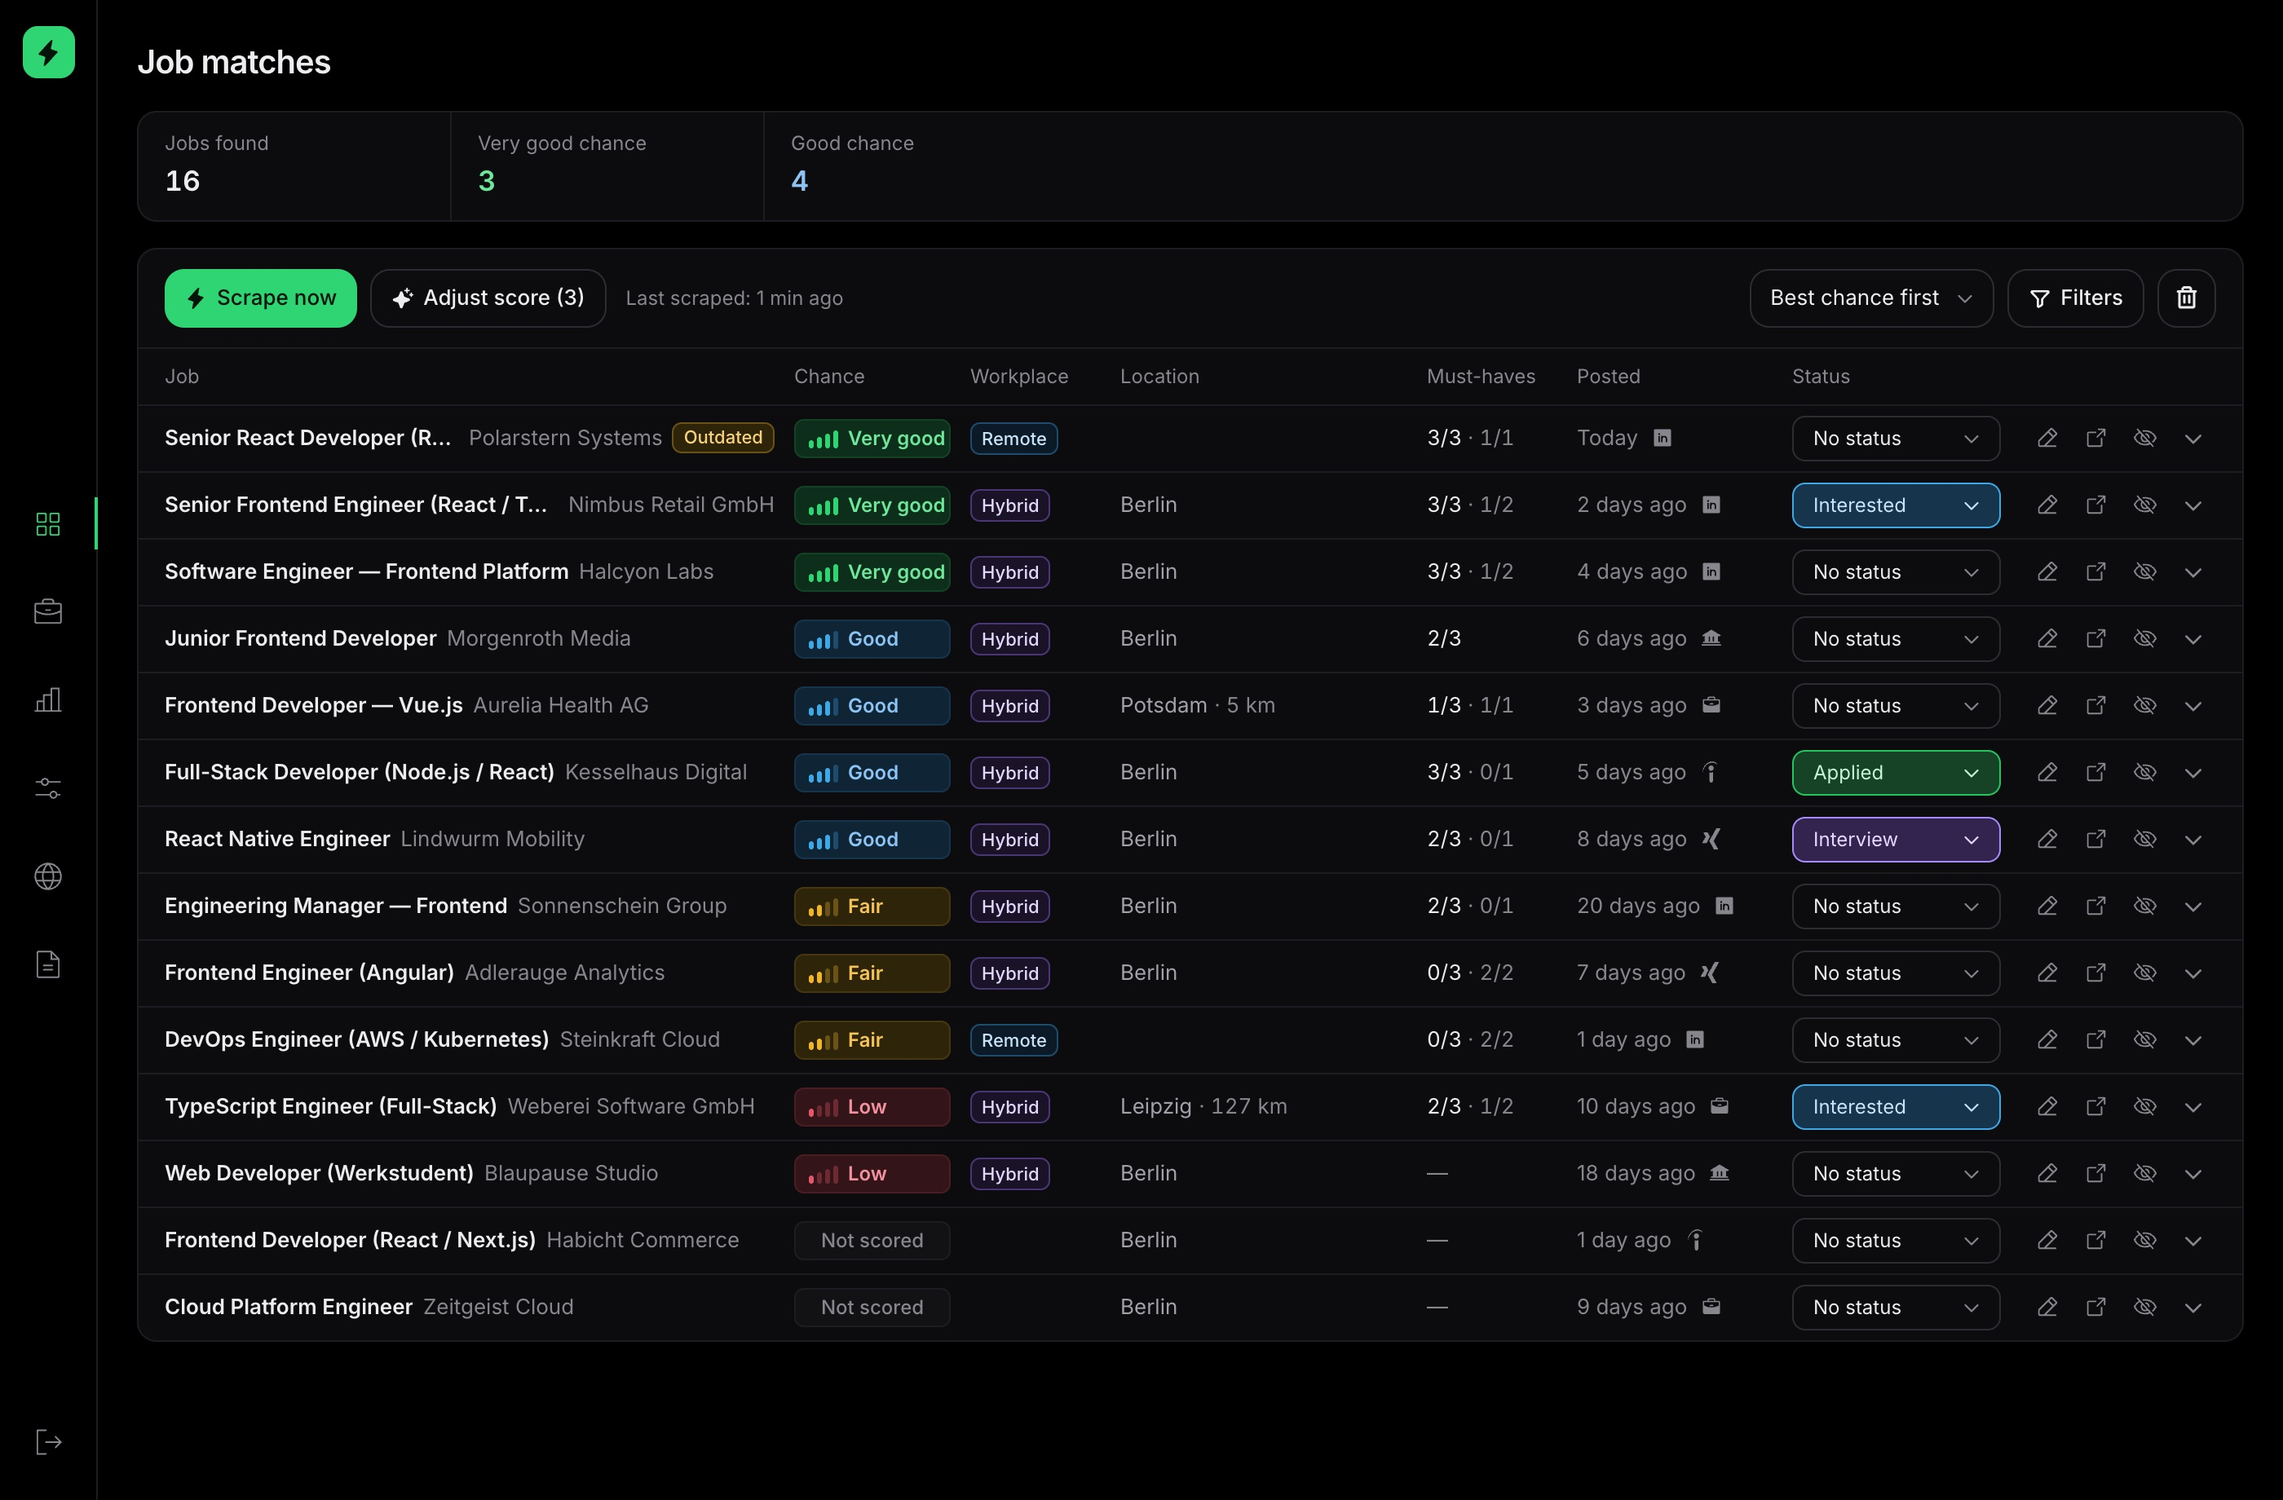
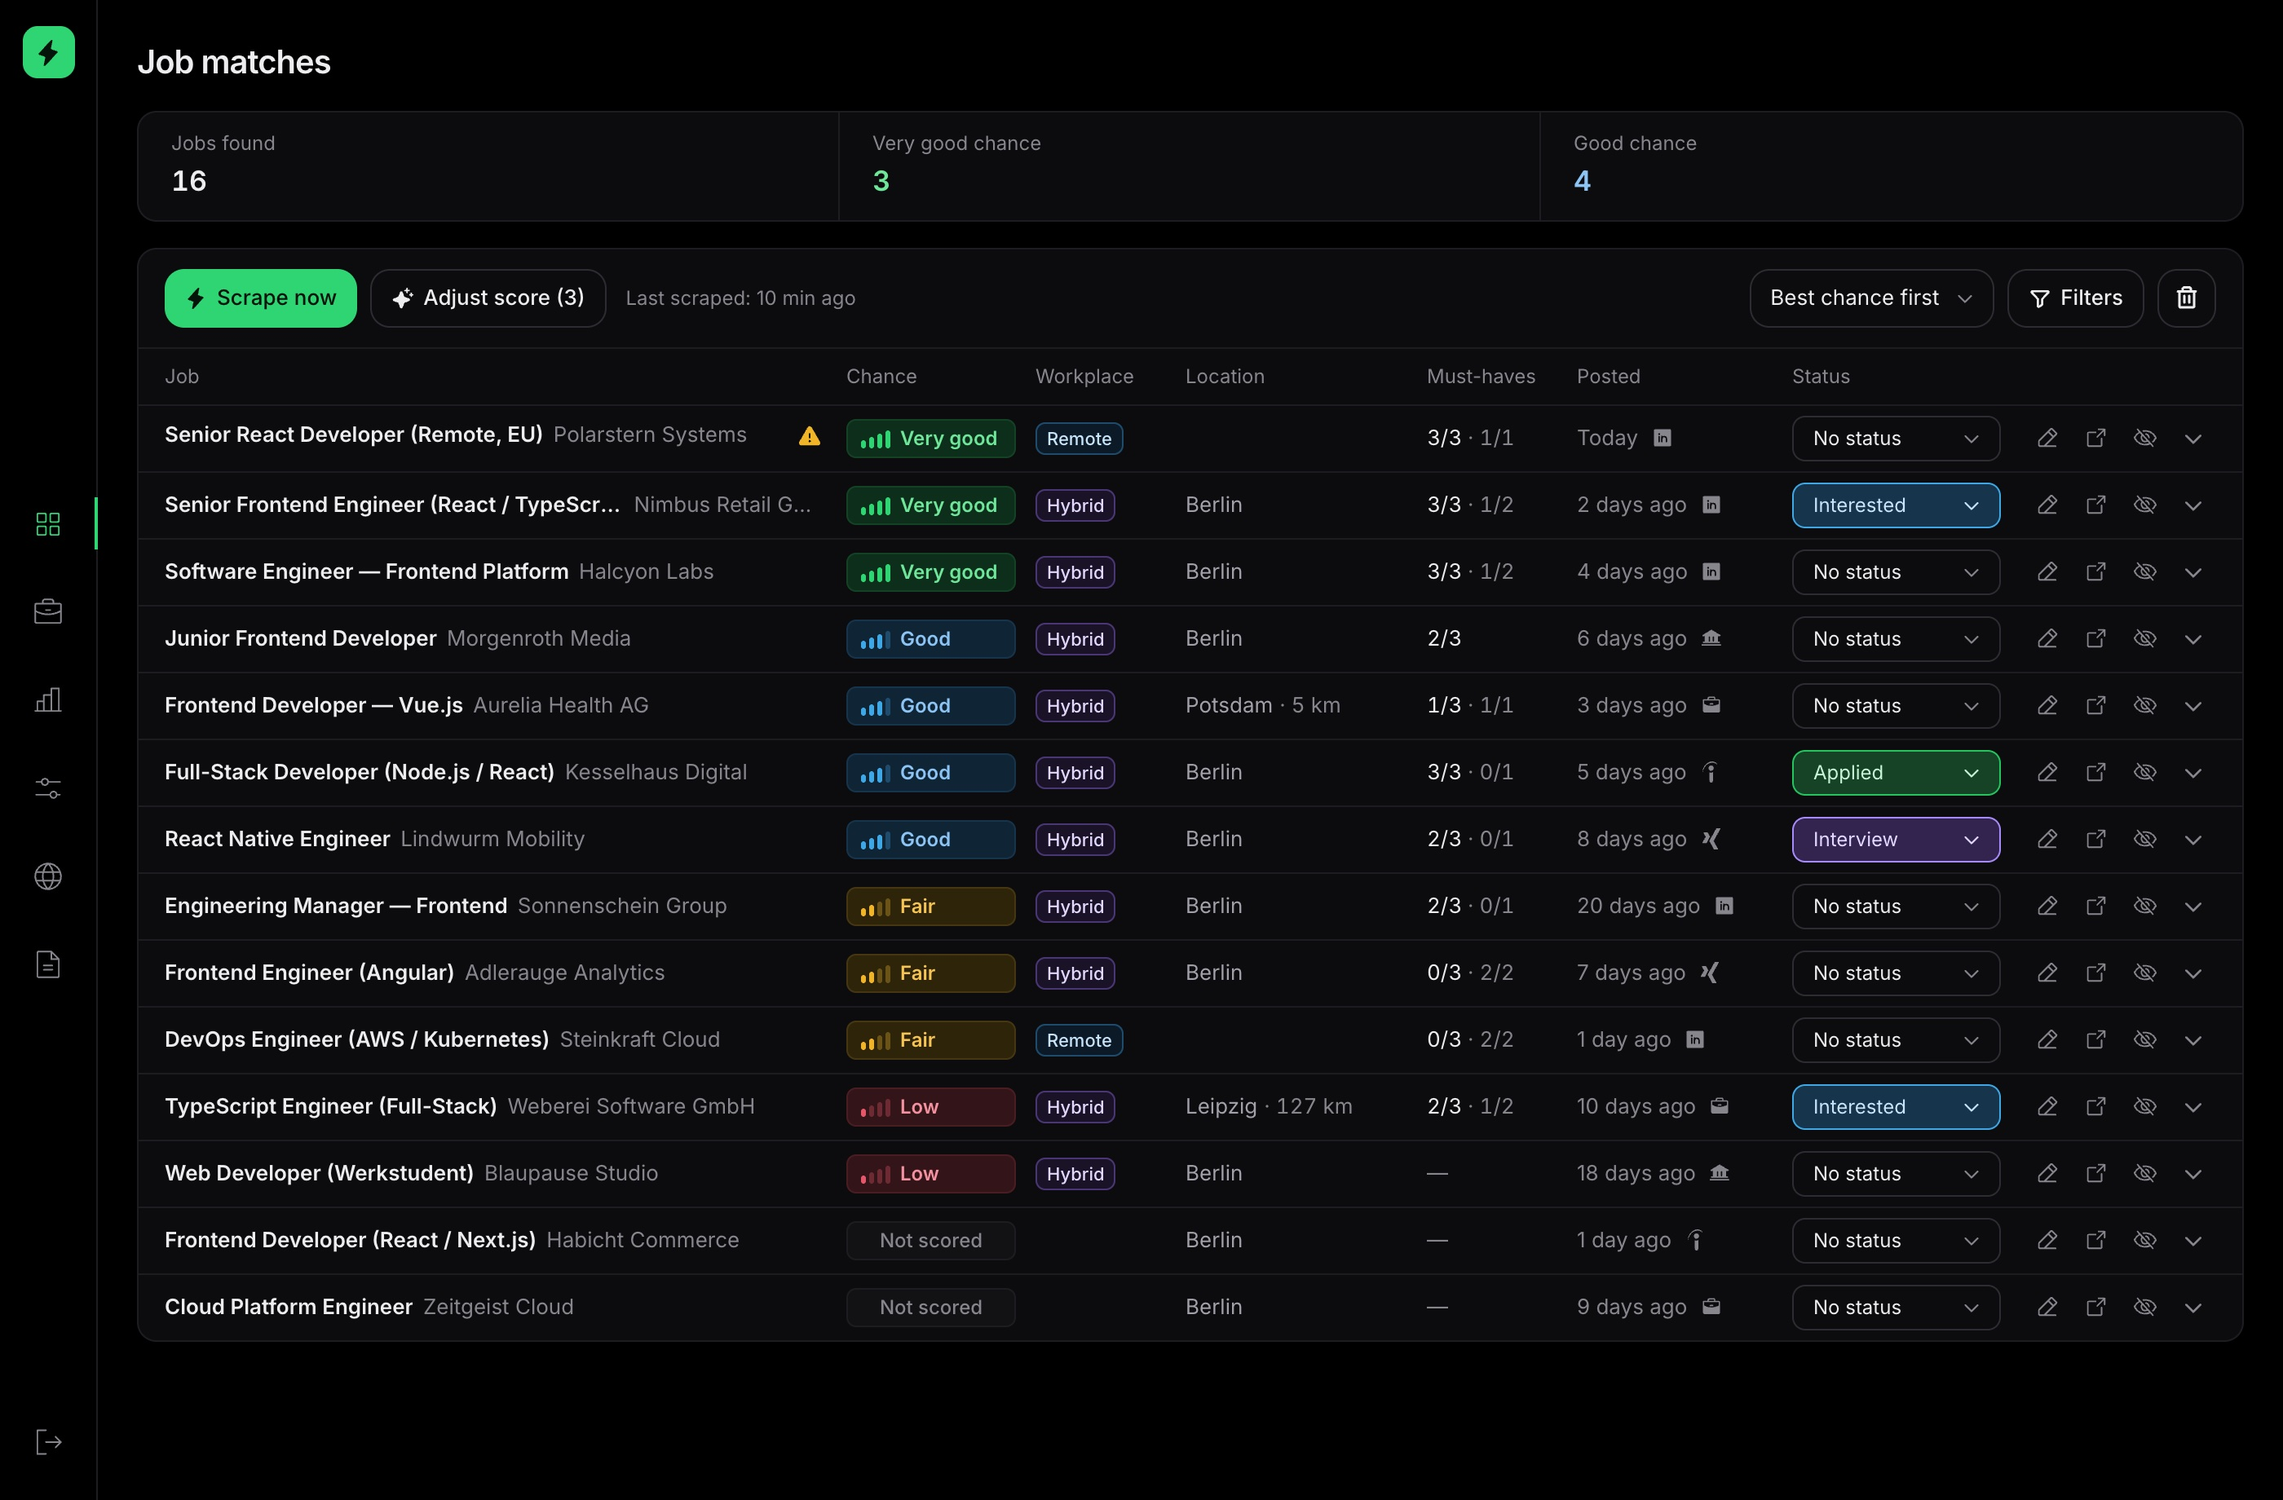
full text on hover when names are cut off

diff --git a/src/components/JobCard.tsx b/src/components/JobCard.tsx
@@ -1,6 +1,6 @@
 "use client";
 
-import { useState } from "react";
+import { useRef, useState } from "react";
 import {
   ArrowDown,
   ArrowSquareOut,
@@ -15,6 +15,7 @@ import {
   MapPin,
   PencilSimpleLine,
   Prohibit,
+  Warning,
   X,
 } from "@phosphor-icons/react/dist/ssr";
 import type { Chance, Requirement, RequirementKind, RequirementStatus } from "@/lib/chance";
@@ -22,6 +23,7 @@ import type { Job, JobMatchDetail, JobStatus } from "@/lib/mock-data";
 import { JOB_STATUSES, jobStatusLabels, platformIconSlugs, platformLabels } from "@/lib/mock-data";
 import { ChanceBadge, ChancePill } from "@/components/ChanceBadge";
 import { coreRequirements } from "@/lib/scoring-rules";
+import { InfoTip } from "@/components/InfoTip";
 import { JobDescription } from "@/components/JobDescription";
 import { RowAction, RowTooltip, rowActionClass, Select } from "@/components/controls";
 
@@ -71,7 +73,18 @@ function RequirementChip({ requirement }: { requirement: Requirement }) {
   );
 }
 
-function ChanceBreakdown({ chance, match }: { chance: Chance; match: JobMatchDetail }) {
+const STALE_NOTE =
+  "This chance was rated with older rules or before you changed your preferences. Use Adjust score to update it.";
+
+function ChanceBreakdown({
+  chance,
+  match,
+  stale,
+}: {
+  chance: Chance;
+  match: JobMatchDetail;
+  stale: boolean;
+}) {
   const { requirements, downgrades, blocker, reasoning } = match;
   // The same split the tier is computed from (scoring-rules.ts): the key
   // requirements weigh most, the rest counts as a share.
@@ -88,6 +101,13 @@ function ChanceBreakdown({ chance, match }: { chance: Chance; match: JobMatchDet
         </div>
         <ChancePill chance={chance} />
       </div>
+
+      {stale && (
+        <p className="mb-2.5 flex items-start gap-1.5 text-[12px] text-amber-700">
+          <Warning size={13} weight="fill" className="mt-0.5 shrink-0 text-amber-400" />
+          {STALE_NOTE}
+        </p>
+      )}
 
       {blocker && (
         <ul className="mb-2.5 flex flex-wrap gap-1.5">
@@ -165,11 +185,53 @@ export const statusTier: Record<JobStatus, { text: string; bg: string; border: s
 };
 
 /**
+ * Text cut off with "…" when its column is too narrow; hovering shows all of it.
+ * The full text only pops up when something was actually cut.
+ */
+function Truncated({
+  text,
+  as: Tag = "span",
+  className = "",
+  wrapperClassName = "",
+}: {
+  text: string;
+  as?: "span" | "h2";
+  className?: string;
+  wrapperClassName?: string;
+}) {
+  const ref = useRef<HTMLElement>(null);
+  const [cut, setCut] = useState(false);
+  return (
+    <span
+      className={`group/cut relative min-w-0 ${wrapperClassName}`}
+      onMouseEnter={() =>
+        setCut(!!ref.current && ref.current.scrollWidth > ref.current.clientWidth)
+      }
+    >
+      <Tag
+        ref={ref as React.RefObject<HTMLHeadingElement>}
+        className={`block truncate ${className}`}
+      >
+        {text}
+      </Tag>
+      {cut && (
+        <span
+          aria-hidden="true"
+          className="pointer-events-none absolute bottom-full left-0 z-20 mb-1.5 w-max max-w-80 translate-y-0.5 rounded-md border border-border-strong bg-popover px-2 py-1 text-[12px] font-normal whitespace-normal text-text opacity-0 transition-[opacity,translate] duration-150 group-hover/cut:translate-y-0 group-hover/cut:opacity-100"
+        >
+          {text}
+        </span>
+      )}
+    </span>
+  );
+}
+
+/**
  * The job list's columns on wide screens; the header row in JobResults uses the
  * same template so the two line up.
  */
 export const JOB_ROW_COLUMNS =
-  "xl:grid-cols-[minmax(0,1fr)_6rem_5rem_minmax(0,11rem)_5rem_7.5rem_8rem_7.5rem]";
+  "xl:grid-cols-[minmax(0,1fr)_6.5rem_5rem_minmax(0,8.5rem)_5rem_7.5rem_8rem_7.5rem]";
 
 /** "3/3" key requirements met and "1/2" of the rest, as the breakdown counts them. */
 function mustHaveCounts(requirements: Requirement[]) {
@@ -223,14 +285,31 @@ export function JobCard({
           dimmed ? "bg-slate-100 hover:bg-slate-200" : "hover:bg-surface-2"
         }`}
       >
-        <div className={`flex min-w-0 items-baseline gap-1.5 ${dimClass}`}>
-          <h2 className="truncate text-[14px] font-semibold text-text transition-colors group-hover/row:text-white xl:text-[13px]">
-            {job.title}
-          </h2>
-          <span className="shrink-0 truncate text-text-faint xl:max-w-[45%]">{job.company}</span>
+        {/* Mobile: title on its own line, company below. Desktop: side by side,
+            the title keeping its room and the company shortened first. */}
+        <div className={`flex min-w-0 items-start gap-2 ${dimClass}`}>
+          <div className="flex min-w-0 flex-1 flex-col xl:flex-row xl:items-baseline xl:gap-1.5">
+            <Truncated
+              as="h2"
+              text={job.title}
+              className="text-[14px] font-semibold text-text transition-colors group-hover/row:text-white xl:text-[13px]"
+              wrapperClassName="xl:shrink"
+            />
+            <Truncated
+              text={job.company}
+              className="text-text-faint"
+              wrapperClassName="xl:shrink-[3]"
+            />
+          </div>
           {job.isStale && (
-            <span className="shrink-0 self-center rounded-md border border-amber-300 bg-amber-100 px-1.5 text-[11px] font-medium text-amber-800">
-              Outdated
+            <span className="ml-auto shrink-0 xl:self-center">
+              <InfoTip
+                label="Outdated score"
+                icon={<Warning size={15} weight="fill" />}
+                className="text-amber-400 hover:text-amber-700"
+              >
+                {STALE_NOTE}
+              </InfoTip>
             </span>
           )}
         </div>
@@ -251,7 +330,7 @@ export function JobCard({
             {job.location && !(job.location === "Remote" && job.arrangement === "remote") && (
               <>
                 <MapPin size={12} weight="fill" className="shrink-0 text-text-faint xl:hidden" />
-                <span className="truncate">{job.location}</span>
+                <Truncated text={job.location} />
                 {/* 0 km means it's in one of your cities — the name says enough. */}
                 {job.distanceKm !== null && job.distanceKm > 0 && (
                   <span className="shrink-0 text-text-faint tabular-nums">
@@ -269,7 +348,6 @@ export function JobCard({
               <>
                 <span className="text-text">{counts.key}</span>
                 {counts.other && <span className="text-text-faint"> · {counts.other}</span>}
-                <span className="text-text-faint xl:hidden"> must-haves</span>
               </>
             ) : (
               <span className="text-text-faint">—</span>
@@ -379,7 +457,13 @@ export function JobCard({
                 expanded ? "translate-y-0 opacity-100" : "-translate-y-1 opacity-0"
               }`}
             >
-              {job.chance && job.match && <ChanceBreakdown chance={job.chance} match={job.match} />}
+              {job.chance && job.match && (
+                <ChanceBreakdown
+                  chance={job.chance}
+                  match={job.match}
+                  stale={job.isStale ?? false}
+                />
+              )}
               <JobDescription text={job.description} />
             </div>
           )}

diff --git a/src/app/page.tsx b/src/app/page.tsx
@@ -107,14 +107,16 @@ export default function DashboardPage() {
   // what's still in play — hidden jobs are out of the running.
   const activeJobs = jobs.filter((job) => job.status !== "not_interested");
   const tiles = [
-    { label: "Jobs found", value: jobs.length, color: "text-text" },
+    { label: "Jobs found", short: "Jobs found", value: jobs.length, color: "text-text" },
     {
       label: "Very good chance",
+      short: "Very good",
       value: activeJobs.filter((job) => job.chance === "very_good").length,
       color: "text-emerald-700",
     },
     {
       label: "Good chance",
+      short: "Good",
       value: activeJobs.filter((job) => job.chance === "good").length,
       color: "text-sky-700",
     },
@@ -148,10 +150,13 @@ export default function DashboardPage() {
     >
       <h1 className="mb-4 text-xl font-semibold tracking-tight text-text">Job matches</h1>
 
-      <div className="mb-4 grid grid-cols-3 divide-x divide-border rounded-xl border border-border bg-surface sm:flex">
+      <div className="mb-4 grid grid-cols-3 divide-x divide-border rounded-xl border border-border bg-surface">
         {tiles.map((tile) => (
-          <div key={tile.label} className="min-w-0 px-3 py-2.5 sm:w-48 sm:px-4">
-            <p className="truncate text-[12px] text-text-faint">{tile.label}</p>
+          <div key={tile.label} className="min-w-0 px-3 py-2.5 sm:px-5">
+            <p className="truncate text-[12px] text-text-faint">
+              <span className="sm:hidden">{tile.short}</span>
+              <span className="max-sm:hidden">{tile.label}</span>
+            </p>
             {loading ? (
               <div aria-hidden className="mt-0.5 flex h-6 items-center">
                 <CircleNotch size={16} weight="bold" className="animate-spin text-text-faint" />

diff --git a/src/components/InfoTip.tsx b/src/components/InfoTip.tsx
@@ -13,7 +13,19 @@ const GAP = 8;
  * tap, a tap elsewhere or Escape. Positioned against the viewport, so a card's
  * edge never clips it.
  */
-export function InfoTip({ label, children }: { label: string; children: ReactNode }) {
+export function InfoTip({
+  label,
+  icon = <Info size={16} />,
+  className = "text-text-faint hover:text-text aria-expanded:text-text",
+  children,
+}: {
+  label: string;
+  /** Replaces the ⓘ, e.g. a warning sign. */
+  icon?: ReactNode;
+  /** The trigger's colors. */
+  className?: string;
+  children: ReactNode;
+}) {
   const id = useId();
   const buttonRef = useRef<HTMLButtonElement>(null);
   const tipRef = useRef<HTMLSpanElement>(null);
@@ -77,14 +89,19 @@ export function InfoTip({ label, children }: { label: string; children: ReactNod
           setFocused(false);
           setPinned(false);
         }}
+        // Inside a clickable row, a tap on the tip must not also open the row.
+        onKeyDown={(e) => {
+          if (e.key === "Enter" || e.key === " ") e.stopPropagation();
+        }}
         onClick={(e) => {
           e.preventDefault();
+          e.stopPropagation();
           if (pinned) e.currentTarget.blur();
           setPinned(!pinned);
         }}
-        className="inline-flex size-5.5 shrink-0 items-center justify-center rounded-md text-text-faint outline-none transition-colors hover:bg-surface-hover hover:text-text focus-visible:ring-2 focus-visible:ring-black/60 aria-expanded:text-text"
+        className={`inline-flex size-5.5 shrink-0 items-center justify-center rounded-md outline-none transition-colors hover:bg-surface-hover focus-visible:ring-2 focus-visible:ring-primary/40 ${className}`}
       >
-        <Info size={16} />
+        {icon}
       </button>
       {open && (
         <span

diff --git a/src/components/ChanceBadge.tsx b/src/components/ChanceBadge.tsx
@@ -61,7 +61,7 @@ export function ChanceBadge({ chance }: { chance: Chance | null }) {
   if (chance === null) {
     return (
       <div
-        className="flex h-6 w-24 shrink-0 items-center justify-center rounded-md border border-border bg-surface-2"
+        className="inline-flex h-6 shrink-0 items-center justify-center rounded-md border px-2 border-border bg-surface-2"
         aria-label="Not scored yet"
       >
         <span className="text-[12px] font-medium text-text-faint">Not scored</span>
@@ -71,7 +71,7 @@ export function ChanceBadge({ chance }: { chance: Chance | null }) {
   const style = chanceStyles[chance];
   return (
     <div
-      className={`flex h-6 w-24 shrink-0 items-center gap-1.5 rounded-md border px-2 ${style.bg} ${style.border}`}
+      className={`inline-flex h-6 shrink-0 items-center gap-1.5 rounded-md border px-2 ${style.bg} ${style.border}`}
       aria-label={chanceLabels[chance]}
       title={chanceLabels[chance]}
     >

diff --git a/src/components/JobResults.tsx b/src/components/JobResults.tsx
@@ -255,13 +255,13 @@ export function JobResults({
           ) : needsScoreCount > 0 ? (
             <>
               {/* Shorter label on very narrow phones so it stays on one line. */}
-              <span className="max-[360px]:hidden">Adjust score ({needsScoreCount})</span>
-              <span className="hidden max-[360px]:inline">Adjust ({needsScoreCount})</span>
+              <span className="max-[520px]:hidden">Adjust score ({needsScoreCount})</span>
+              <span className="hidden max-[520px]:inline">Adjust ({needsScoreCount})</span>
             </>
           ) : (
             <>
-              <span className="max-[360px]:hidden">Rescore jobs</span>
-              <span className="hidden max-[360px]:inline">Rescore</span>
+              <span className="max-[520px]:hidden">Rescore jobs</span>
+              <span className="hidden max-[520px]:inline">Rescore</span>
             </>
           )}
         </button>

diff --git a/src/components/controls.tsx b/src/components/controls.tsx
@@ -10,7 +10,7 @@ const control = `h-9 rounded-xl text-[13px] ${controlBase}`;
 // The job list's rows are thin, so their controls are too.
 const controlSmall = `h-7 rounded-lg text-[12px] ${controlBase}`;
 
-const button = `${control} inline-flex shrink-0 items-center justify-center gap-1.5 font-medium active:scale-[0.98]`;
+const button = `${control} inline-flex shrink-0 items-center justify-center gap-1.5 font-medium whitespace-nowrap active:scale-[0.98]`;
 
 const secondaryColors =
   "border border-border-strong bg-surface text-text hover:border-border-hover hover:bg-surface-hover focus-visible:ring-primary/20 disabled:hover:border-border-strong disabled:hover:bg-surface";
